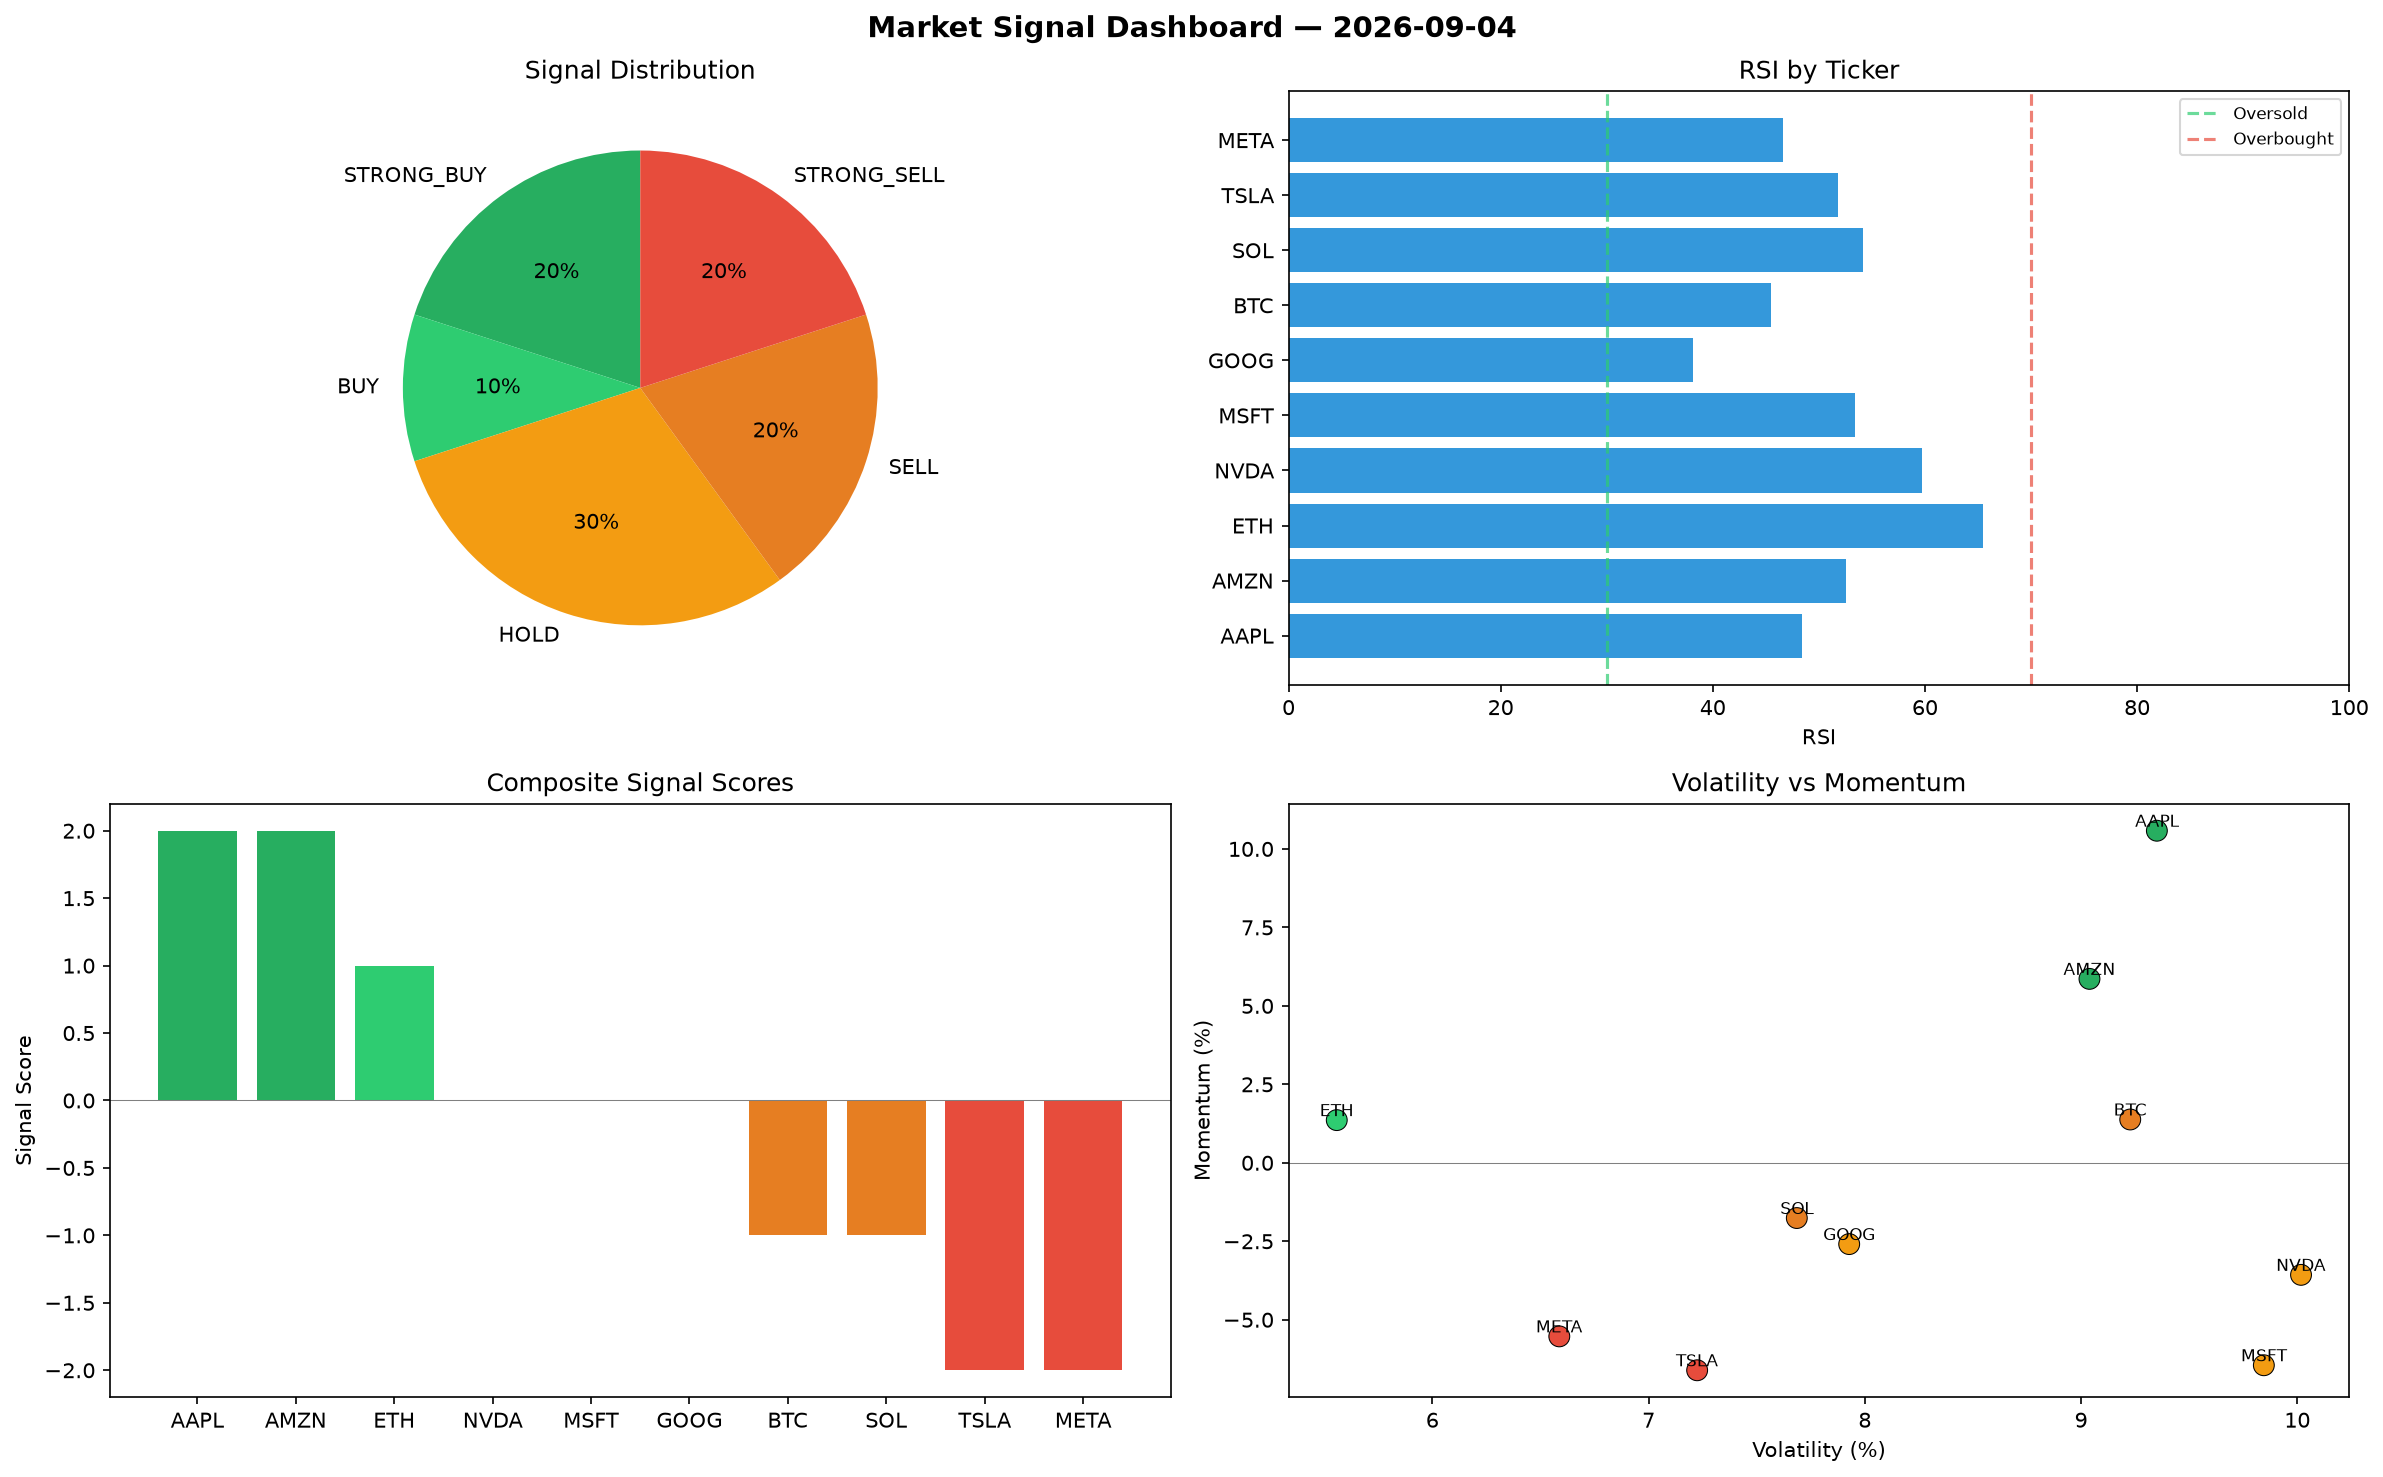
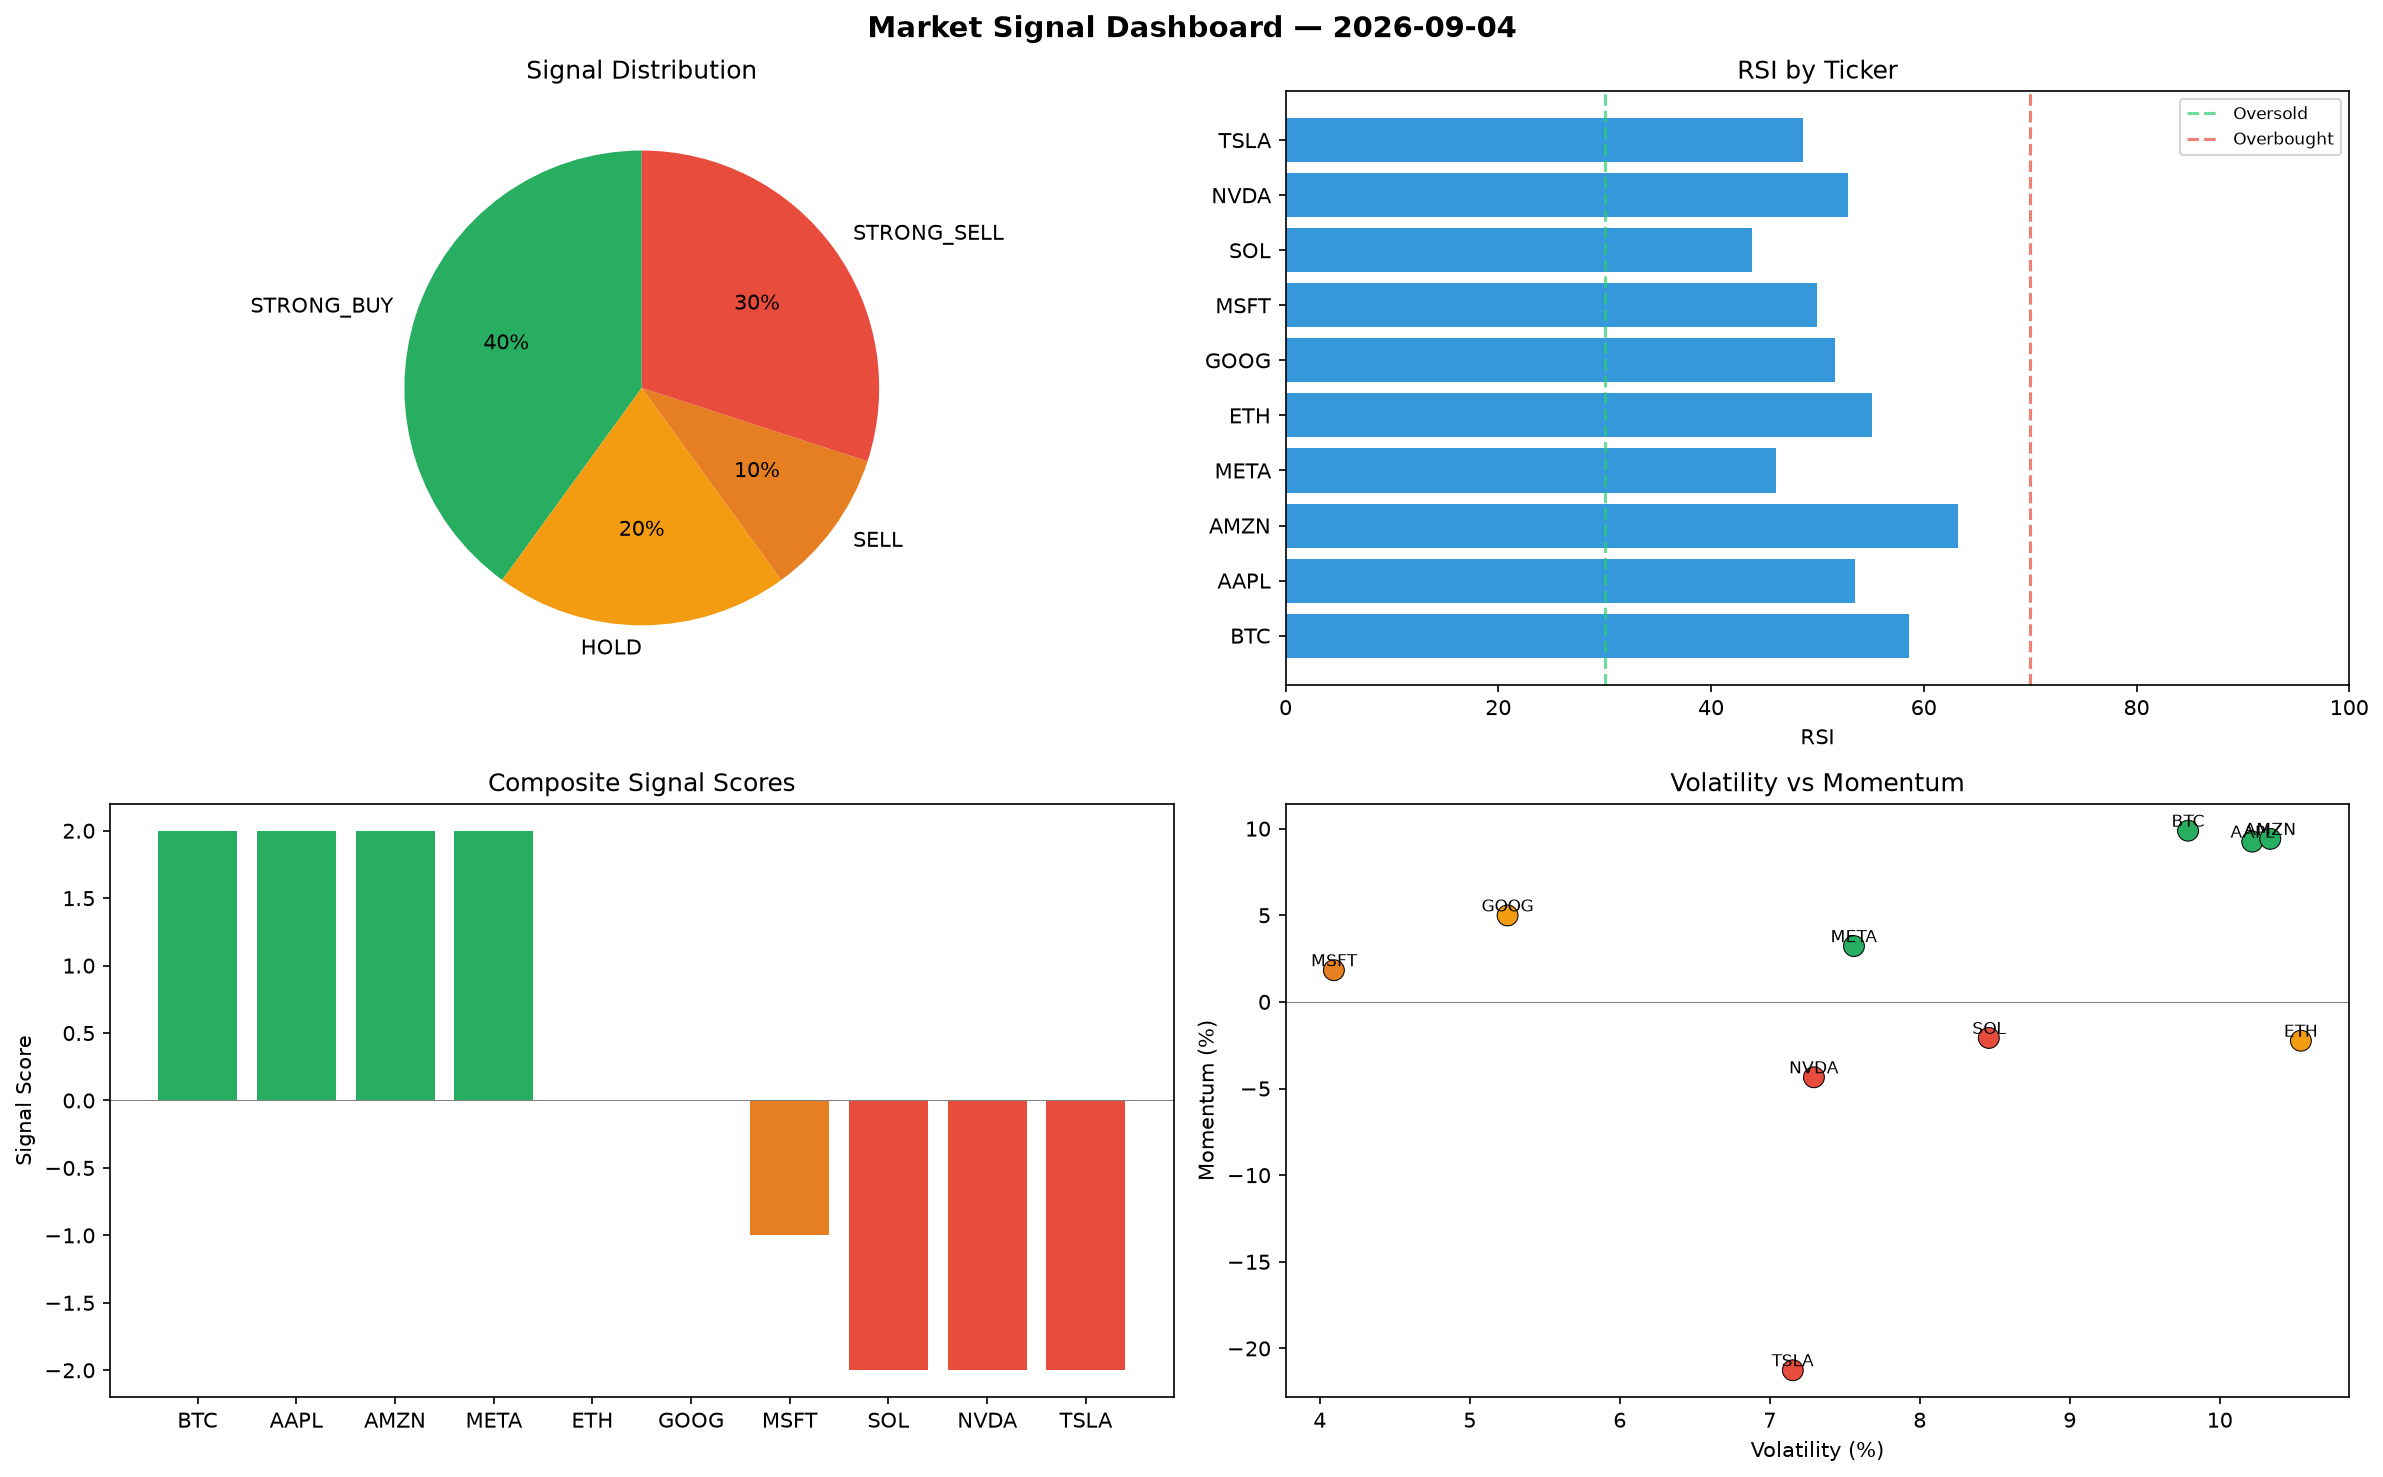
automated-bots: market signals 2026-09-04T17:42

diff --git a/logs/2026-09-04.md b/logs/2026-09-04.md
@@ -1,6 +1,6 @@
 # Market Signal Report — 2026-09-04
 
-**Run ID:** `5cf39f5bd5` | **Buy:** 3 | **Sell:** 4 | **Hold:** 3
+**Run ID:** `668fb6eea3` | **Buy:** 4 | **Sell:** 4 | **Hold:** 2
 
 ![Dashboard](2026-09-04_dashboard.png)
 
@@ -8,28 +8,28 @@
 
 | Ticker | Price | Signal | Score | RSI | Momentum | Confidence |
 |--------|-------|--------|-------|-----|----------|------------|
-| AAPL | $1861.76 | **STRONG_BUY** | 2 | 48.39 | 0.1058 | 0.5 |
-| AMZN | $3833.02 | **STRONG_BUY** | 2 | 52.55 | 0.0586 | 0.5 |
-| ETH | $3165.11 | **BUY** | 1 | 65.43 | 0.0136 | 0.25 |
-| NVDA | $2563.5 | **HOLD** | 0 | 59.75 | -0.0357 | 0.0 |
-| MSFT | $3788.17 | **HOLD** | 0 | 53.4 | -0.0645 | 0.0 |
-| GOOG | $725.6 | **HOLD** | 0 | 38.14 | -0.0259 | 0.0 |
-| BTC | $1996.23 | **SELL** | -1 | 45.44 | 0.0138 | 0.25 |
-| SOL | $1853.8 | **SELL** | -1 | 54.15 | -0.0176 | 0.25 |
-| TSLA | $1596.96 | **STRONG_SELL** | -2 | 51.83 | -0.0661 | 0.5 |
-| META | $4438.0 | **STRONG_SELL** | -2 | 46.62 | -0.0553 | 0.5 |
+| BTC | $969.01 | **STRONG_BUY** | 2 | 58.63 | 0.0988 | 0.5 |
+| AAPL | $3689.91 | **STRONG_BUY** | 2 | 53.51 | 0.0925 | 0.5 |
+| AMZN | $3743.56 | **STRONG_BUY** | 2 | 63.19 | 0.0941 | 0.5 |
+| META | $2761.61 | **STRONG_BUY** | 2 | 46.12 | 0.0322 | 0.5 |
+| ETH | $448.51 | **HOLD** | 0 | 55.13 | -0.0224 | 0.0 |
+| GOOG | $2779.68 | **HOLD** | 0 | 51.62 | 0.0499 | 0.0 |
+| MSFT | $4705.65 | **SELL** | -1 | 49.92 | 0.0183 | 0.25 |
+| SOL | $4113.88 | **STRONG_SELL** | -2 | 43.82 | -0.0208 | 0.5 |
+| NVDA | $1034.68 | **STRONG_SELL** | -2 | 52.87 | -0.0435 | 0.5 |
+| TSLA | $3181.27 | **STRONG_SELL** | -2 | 48.63 | -0.2126 | 0.5 |
 
 ## Delta vs Yesterday
 
 | Ticker | Today | Yesterday | Price Change | Signal Changed |
 |--------|-------|-----------|-------------|----------------|
-| AAPL | STRONG_BUY | STRONG_SELL | 📉 -28.84% | ⚠ YES |
-| AMZN | STRONG_BUY | HOLD | 📈 4662.11% | ⚠ YES |
-| ETH | BUY | HOLD | 📈 121.19% | ⚠ YES |
-| NVDA | HOLD | STRONG_SELL | 📈 130.37% | ⚠ YES |
-| MSFT | HOLD | STRONG_BUY | 📈 1072.08% | ⚠ YES |
-| GOOG | HOLD | STRONG_SELL | 📉 -79.86% | ⚠ YES |
-| BTC | SELL | STRONG_BUY | 📉 -53.11% | ⚠ YES |
-| SOL | SELL | STRONG_BUY | 📉 -33.72% | ⚠ YES |
-| TSLA | STRONG_SELL | HOLD | 📉 -23.88% | ⚠ YES |
-| META | STRONG_SELL | STRONG_SELL | 📈 454.6% | — |
+| BTC | STRONG_BUY | STRONG_BUY | 📉 -77.24% | — |
+| AAPL | STRONG_BUY | STRONG_SELL | 📈 41.04% | ⚠ YES |
+| AMZN | STRONG_BUY | HOLD | 📈 4550.96% | ⚠ YES |
+| META | STRONG_BUY | STRONG_SELL | 📈 245.11% | ⚠ YES |
+| ETH | HOLD | HOLD | 📉 -68.66% | — |
+| GOOG | HOLD | STRONG_SELL | 📉 -22.85% | ⚠ YES |
+| MSFT | SELL | STRONG_BUY | 📈 1355.96% | ⚠ YES |
+| SOL | STRONG_SELL | STRONG_BUY | 📈 47.09% | ⚠ YES |
+| NVDA | STRONG_SELL | STRONG_SELL | 📉 -7.02% | — |
+| TSLA | STRONG_SELL | HOLD | 📈 51.64% | ⚠ YES |
